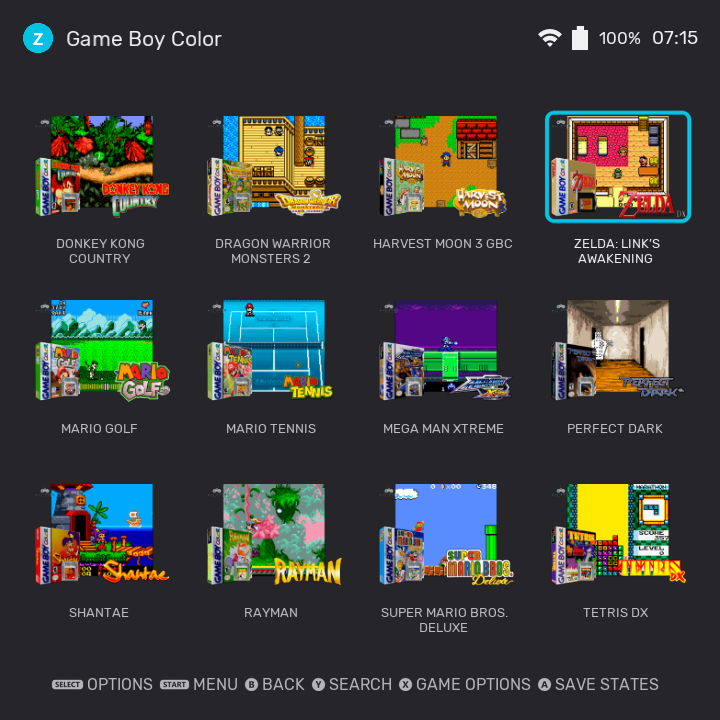
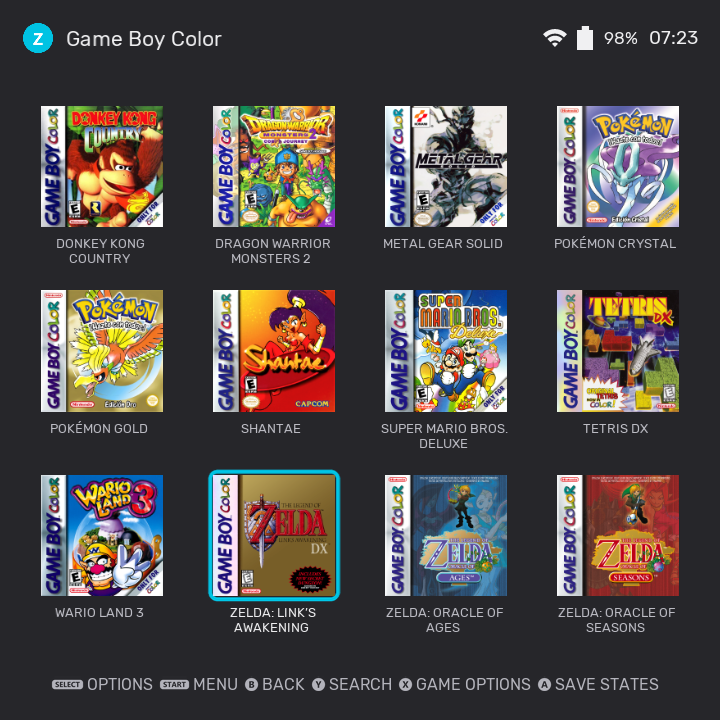
docs: game grid screenshots with box art only

diff --git a/README.md b/README.md
@@ -21,7 +21,7 @@ R36 Ultra, 720x720. Dark and light variants of the Zenith theme.
 | **Game grid (dark)** | **Game grid (light)** | **Settings menu** |
 | <img src="docs/images/grid-dark.png" width="230"> | <img src="docs/images/grid-light.png" width="230"> | <img src="docs/images/menu-dark.png" width="230"> |
 
-The game grids use a small demo set of Game Boy Color games with scraped covers; Zenith does not ship any games.
+The game grids use a small demo set of Game Boy Color games with box art; Zenith does not ship any games or covers. The grid shows the `thumbnail` (box art) that the EmulationStation scraper stores for each game.
 
 ## What's different from AURKNIX
 
